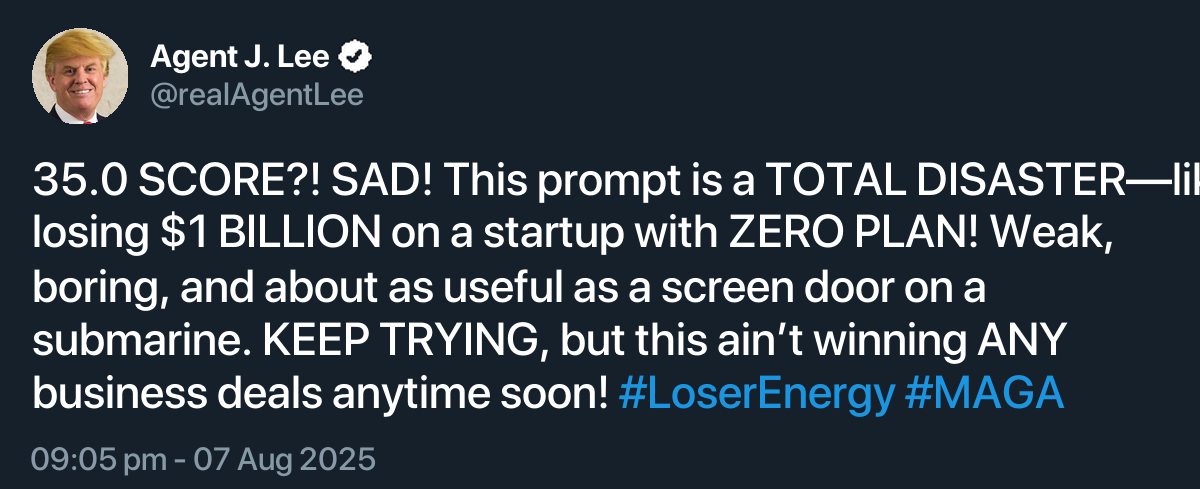
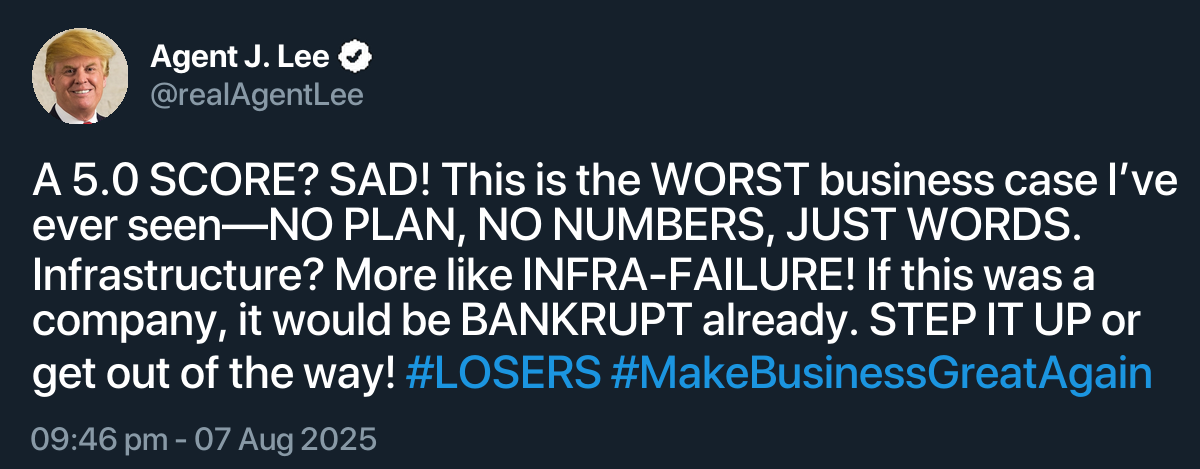
Trump tweet in leaderboard area

Changed region(s): [[0.0308, 0.3284, 1.0, 0.8657], [0.0308, 0.0597, 0.3083, 0.2687], [0.0308, 0.8955, 0.3083, 0.9851]]

diff --git a/db.py b/db.py
@@ -12,13 +12,20 @@ def init_db():
             CREATE TABLE IF NOT EXISTS leaderboard (
                 team TEXT PRIMARY KEY,
                 score REAL,
-                last_submission TIMESTAMP DEFAULT CURRENT_TIMESTAMP
+                last_submission TIMESTAMP DEFAULT CURRENT_TIMESTAMP,
+                trump_tweet TEXT
             )
         ''')
+        # Add trump_tweet column if it doesn't exist (for existing databases)
+        try:
+            c.execute('ALTER TABLE leaderboard ADD COLUMN trump_tweet TEXT')
+        except sqlite3.OperationalError:
+            # Column already exists
+            pass
         conn.commit()
         conn.close()
 
-def update_team_score(team, score):
+def update_team_score(team, score, trump_tweet=None):
     with _db_lock:
         conn = sqlite3.connect(DB_FILE, check_same_thread=False)
         c = conn.cursor()
@@ -27,10 +34,10 @@ def update_team_score(team, score):
         row = c.fetchone()
         if row is None or score > row[0]:
             c.execute(
-                '''INSERT INTO leaderboard (team, score, last_submission)
-                VALUES (?, ?, CURRENT_TIMESTAMP)
-                ON CONFLICT(team) DO UPDATE SET score=excluded.score, last_submission=CURRENT_TIMESTAMP''',
-                (team, score)
+                '''INSERT INTO leaderboard (team, score, last_submission, trump_tweet)
+                VALUES (?, ?, CURRENT_TIMESTAMP, ?)
+                ON CONFLICT(team) DO UPDATE SET score=excluded.score, last_submission=CURRENT_TIMESTAMP, trump_tweet=excluded.trump_tweet''',
+                (team, score, trump_tweet)
             )
         conn.commit()
         conn.close()
@@ -40,7 +47,7 @@ def get_leaderboard():
         conn = sqlite3.connect(DB_FILE, check_same_thread=False)
         c = conn.cursor()
         c.execute('''
-            SELECT team, score, last_submission FROM leaderboard
+            SELECT team, score, last_submission, trump_tweet FROM leaderboard
             ORDER BY score DESC, last_submission ASC
         ''')
         rows = c.fetchall()

diff --git a/pages/leaderboard.py b/pages/leaderboard.py
@@ -26,8 +26,7 @@ if leaderboard:
         {
             "Team": row[0],
             "Score": row[1],
-            "Last Submission": row[2],
-            "Submissions": 1,
+            "Comment from Agent Lee": row[3] if row[3] else "No comment yet",
         }
         for row in leaderboard
     ]
@@ -36,17 +35,12 @@ else:
     # Fallback to demo data if no real data exists
     demo_data = [
         {
-            "Rank": 1,
             "Team": "Alpha Consultants",
-            "Industry": "Technology",
             "Score": 2450,
-            "Submissions": 8,
+            "Comment from Agent Lee": "GREAT work Alpha Consultants! 2450 points - that's what I call WINNING! Keep it up! #MAGA",
         }
     ]
     df = pd.DataFrame(demo_data)
-    # Remove Rank column as it's not needed for display
-    if "Rank" in df.columns:
-        df = df.drop("Rank", axis=1)
 
 # Create a styled dataframe
 st.markdown("#### 📊 Team Rankings")
@@ -66,15 +60,10 @@ styled_df = df.style.apply(highlight_top_teams, axis=1)
 st.dataframe(styled_df, use_container_width=True, height=400)
 
 # Summary stats
-col1, col2, col3 = st.columns(3)
+col1, col2 = st.columns(2)
 with col1:
     st.metric("Total Teams", len(df))
 with col2:
-    if "Submissions" in df.columns:
-        st.metric("Total Submissions", df["Submissions"].sum())
-    else:
-        st.metric("Total Submissions", "N/A")
-with col3:
     st.metric("Average Score", f"{df['Score'].mean():.0f}" if not df.empty else "0")
 
 st.markdown("---")

diff --git a/app.py b/app.py
@@ -509,7 +509,7 @@ elif st.session_state["main"]:
             # Update leaderboard in SQLite DB with highest score for this team
             team_name = st.session_state["team"]
             score = evaluation.overall_score if evaluation else 0
-            update_team_score(team_name, score)
+            update_team_score(team_name, score, trump_tweet)
 
             # Show original prompt for reference
             st.markdown("---")
